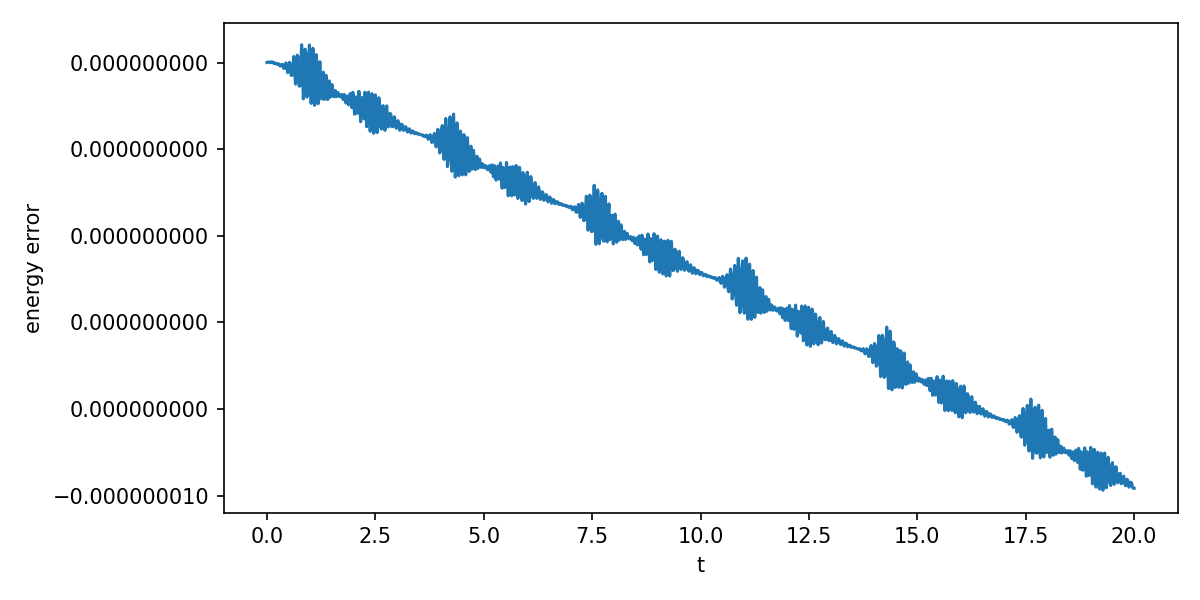
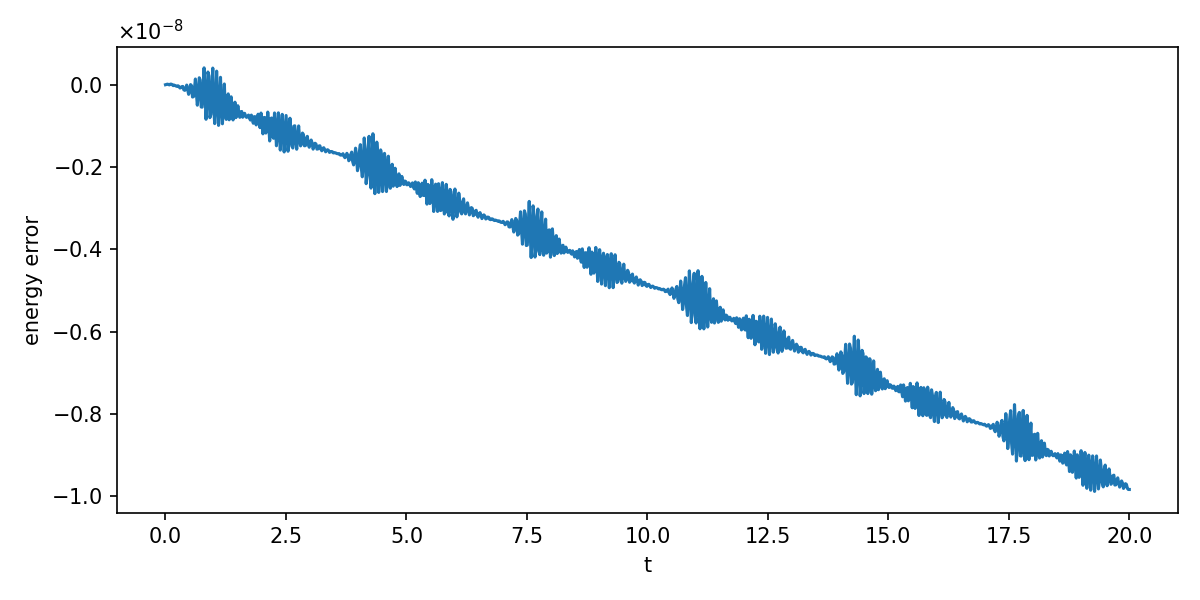
Add pendulum dataset generation pipeline

diff --git a/make_dataset.py b/make_dataset.py
@@ -1,0 +1,81 @@
+import os
+import numpy as np
+import matplotlib.pyplot as plt
+
+from src.data import generate_dataset
+from src.dynamics import pendulum_energy
+
+
+def main():
+    os.makedirs("data", exist_ok=True)
+    os.makedirs("results/figures", exist_ok=True)
+
+    train_t, train_x0, train_x = generate_dataset(
+        n_trajectories=200,
+        t_span=(0.0, 10.0),
+        n_time_points=200,
+        theta_range=(-np.pi, np.pi),
+        omega_range=(-1.5, 1.5),
+        seed=1,
+    )
+
+    test_t, test_x0, test_x = generate_dataset(
+        n_trajectories=50,
+        t_span=(0.0, 10.0),
+        n_time_points=200,
+        theta_range=(-np.pi, np.pi),
+        omega_range=(-1.5, 1.5),
+        seed=1,
+    )
+
+    np.save("data/train_t.npy", train_t)
+    np.save("data/train_x0.npy", train_x0)
+    np.save("data/train_x.npy", train_x)
+
+    np.save("data/test_t.npy", test_t)
+    np.save("data/test_x0.npy", test_x0)
+    np.save("data/test_x.npy", test_x)
+
+    print("Saved:")
+    print("  data/train_t.npy")
+    print("  data/train_x0.npy")
+    print("  data/train_x.npy")
+    print("  data/test_t.npy")
+    print("  data/test_x0.npy")
+    print("  data/test_x.npy")
+    print()
+    print(f"train_x shape: {train_x.shape}")
+    print(f"test_x shape:  {test_x.shape}")
+
+    # Sanity-check plot: a few trajectories in phase space
+    plt.figure(figsize=(6, 6))
+    for i in range(min(10, train_x.shape[0])):
+        theta = train_x[i, :, 0]
+        omega = train_x[i, :, 1]
+        plt.plot(theta, omega, alpha=0.8)
+    plt.xlabel("theta")
+    plt.ylabel("omega")
+    plt.tight_layout()
+    plt.savefig("results/figures/train_phase_samples.png", dpi=150)
+    plt.close()
+
+    # Sanity-check energy conservation on one trajectory
+    energy = np.array([
+        pendulum_energy(state) for state in train_x[0]
+    ])
+    energy_error = energy - energy[0]
+
+    plt.figure(figsize=(8, 4))
+    plt.plot(train_t, energy_error)
+    plt.xlabel("t")
+    plt.ylabel("energy error")
+    plt.ticklabel_format(axis="y", style="sci", scilimits=(0, 0), useMathText=True)
+    plt.tight_layout()
+    plt.savefig("results/figures/train_sample_energy_error.png", dpi=150)
+    plt.close()
+
+    print("Saved sanity-check figures in results/figures/")
+
+
+if __name__ == "__main__":
+    main()

diff --git a/src/data.py b/src/data.py
@@ -1,0 +1,62 @@
+import numpy as np
+from scipy.integrate import solve_ivp
+
+from src.dynamics import pendulum_rhs
+
+def sample_initial_conditions(
+        n_samples,
+        theta_range=(-np.pi, np.pi),
+        omega_range=(-1.5,1.5),
+        seed=None
+):
+    rng = np.random.default_rng(seed)
+
+    theta0 = rng.uniform(theta_range[0], theta_range[1], size=n_samples)
+    omega0 = rng.uniform(omega_range[0], omega_range[1], size=n_samples)
+
+    x0 = np.stack([theta0, omega0], axis=1)
+    return x0
+
+def simulate_trajectory(x0, t_span, t_eval, rtol=1e-9, atol=1e-9):
+    sol = solve_ivp(
+        pendulum_rhs,
+        t_span,
+        x0,
+        t_eval=t_eval,
+        rtol=rtol,
+        atol=atol,
+    )
+
+    if not sol.success:
+        raise RuntimeError(f"ODE solve failed: {sol.message}")
+
+    # shape: (T, 2)
+    x = sol.y.T
+    return x
+
+
+def generate_dataset(
+    n_trajectories,
+    t_span,
+    n_time_points,
+    theta_range=(-np.pi, np.pi),
+    omega_range=(-1.5, 1.5),
+    seed=None,
+):
+    t_eval = np.linspace(t_span[0], t_span[1], n_time_points)
+    x0_all = sample_initial_conditions(
+        n_trajectories,
+        theta_range=theta_range,
+        omega_range=omega_range,
+        seed=seed,
+    )
+
+    trajectories = []
+    for x0 in x0_all:
+        x = simulate_trajectory(x0, t_span, t_eval)
+        trajectories.append(x)
+
+    # shape: (N, T, 2)
+    x_all = np.stack(trajectories, axis=0)
+
+    return t_eval, x0_all, x_all

diff --git a/test_pendulum_sim.py b/test_pendulum_sim.py
@@ -42,14 +42,14 @@ def main():
 
     energy_error = energy - energy[0]
 
-    plt.figure(figsize=(8, 4))
-    plt.plot(sol.t, energy_error)
-    plt.xlabel("t")
-    plt.ylabel("energy error")
-    plt.ticklabel_format(axis="y", style="plain", useOffset=False)
-    plt.tight_layout()
-    plt.savefig("results/figures/sample_energy_error.png", dpi=150)
-    plt.close()
+    fig, ax = plt.subplots(figsize=(8, 4))
+    ax.plot(sol.t, energy_error)
+    ax.set_xlabel("t")
+    ax.set_ylabel("energy error")
+    ax.ticklabel_format(axis="y", style="sci", scilimits=(0, 0), useMathText=True)
+    fig.tight_layout()
+    fig.savefig("results/figures/sample_energy_error.png", dpi=150)
+    plt.close(fig)
 
     plt.figure(figsize=(8, 4))
     plt.plot(sol.t, energy)